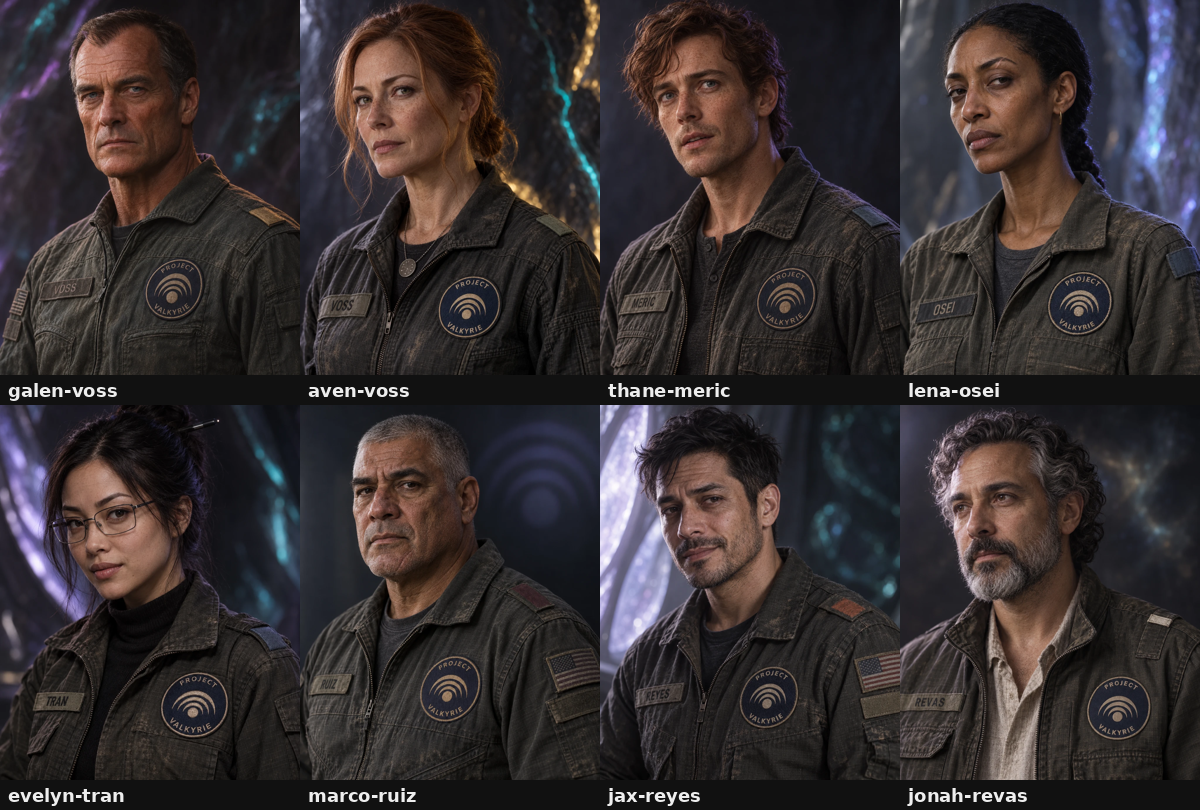
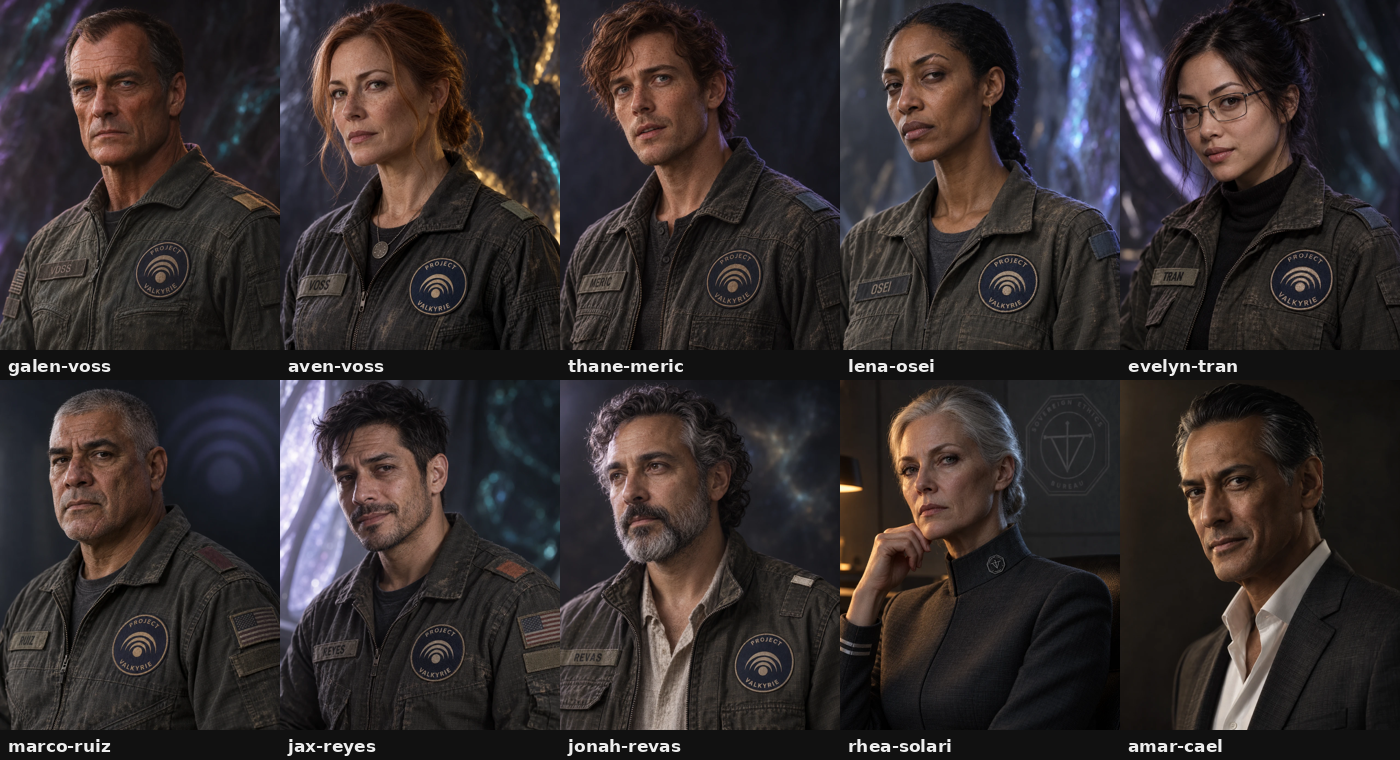
Lock Amar Cael's look; lineup now shows all ten characters
Claude-Session: https://claude.ai/code/session_013rQteEueyf9E7t7gpcuXDx

diff --git a/docs/celestial/visual-canon/README.md b/docs/celestial/visual-canon/README.md
@@ -7,7 +7,7 @@ This folder is the reference for anything we render: character portraits, ship s
 
 ## Files
 
-`crew-lineup.png` shows all eight approved crew portraits side by side.
+`crew-lineup.png` shows all ten approved character portraits side by side: the eight crew, then Rhea Solari and Amar Cael.
 
 **Reference images** (`public/visual-references/`): images to attach alongside the prompt in ChatGPT, Gemini, Grok or Runway. Each spec declares its own in a `reference_images` array (`path`, `role`, `label`, `instruction`). The arrays inherit through `parent_entity`, views and states: `valkyrie-crew` attaches the patch to every crew member, and each character adds their identity portrait. The admin console shows them under every generated prompt, with **Copy prompt** and **Download all references** buttons, and the prompt names each reference so the generator knows to match it. To add one, put the file in `public/visual-references/` and add an entry to the right spec.
 - `project-valkyrie-patch.png` (SVG source alongside): the canonical mission patch, with three crescent arcs over a circle per CH01's "Three curves. A circle." Attach it to every shot that shows the uniform. `project-valkyrie-patch-v1-two-arcs.png` is the original ChatGPT crop, kept for its embroidery texture.
@@ -19,6 +19,7 @@ This folder is the reference for anything we render: character portraits, ship s
 - `jax-reyes-portrait.png`: Jax's approved identity portrait.
 - `jonah-revas-portrait.png`: Jonah's approved identity portrait.
 - `rhea-solari-portrait.png`: Rhea's approved identity portrait.
+- `amar-cael-portrait.png`: Amar's approved identity portrait.
 - `sovereign-ethics-bureau-seal.png` (SVG alongside): the Bureau seal, an octagon with a level balance beam over an inverted triangle, silver on graphite. Used on Rhea's collar and as the watermark behind her transmissions.
 - `galen-voss-portrait.png`: Galen's approved identity portrait, which also shows the full uniform. `galen-voss-portrait-v1-chatgpt.png` is the superseded first version.
 
@@ -92,7 +93,7 @@ Each character's `master.json` has a `_provenance` block that separates canon fi
 | Marco Ruiz ✅ approved | ~60, **never rejuvenated** ("too old to pretend") | from `public/visual-references/marco-ruiz-portrait.png`: thickset and broad; weathered medium-brown skin; heavy brow; gray buzz cut; clean-shaven with gray stubble; watchful, unreadable expression; mission coverall with an oxblood security tab and RUIZ name tape. (His left-sleeve flag set the crew standard) |
 | Evelyn Tran ✅ approved | late 20s–early 30s (**young**) | from `public/visual-references/evelyn-tran-portrait.png`: petite; naturally striking (deliberately the attractive one, per the author); light freckles; **thin rectangular metal glasses**; black hair in a loose messy bun with a stylus through it; knowing half-smile; civilian field jacket over a black turtleneck, TRAN name tape, slate-blue science tab |
 | Jonah Revas ✅ approved | looks ~45, actually mid-50s (**"calm older than his face"**) | from `public/visual-references/jonah-revas-portrait.png`: medium build; light olive skin; dark curls mostly silver at the temples; full, neatly trimmed gray beard; still, inward, listening expression; civilian field jacket over an undyed linen shirt, REVAS name tape, bone-white advisor tab. Deliberately distinct from Jax |
-| Amar Cael (direction chosen, portrait pending) | late 50s (**"refined… less glass tower, more iron core"**) | tall, spare; medium brown skin; lean, refined face; **clean-shaven**; black hair silver at the temples, combed back; small smile "not warm, but real"; tailored charcoal **corporate-issue suit**, open-collar shirt, no logos, no Valkyrie patch |
+| Amar Cael ✅ approved | late 50s (**"refined… less glass tower, more iron core"**) | from `public/visual-references/amar-cael-portrait.png`: lean, refined face; **clean-shaven**; black hair silvering at the temples, combed back; controlled half-smile, "not warm, but real"; tailored charcoal **corporate-issue suit**, white shirt open at the collar, no tie, no patch. Not part of the crew spec |
 | Rhea Solari ✅ approved | late 50s (**"trim lines, eyes too sharp to soften"**) | from `public/visual-references/rhea-solari-portrait.png`: pale; ice-gray eyes; silver hair in a tight low knot; never smiling; high-collared slate-gray Bureau tunic with the **Sovereign Ethics Bureau seal** pin on the collar and two silver cuff bars; the seal as a faint watermark behind her |
 
 Also review: the whole `rigel-ascendant` exterior (a hard-edged graphite modular cruiser, built as the visual opposite of Valkyrie).
